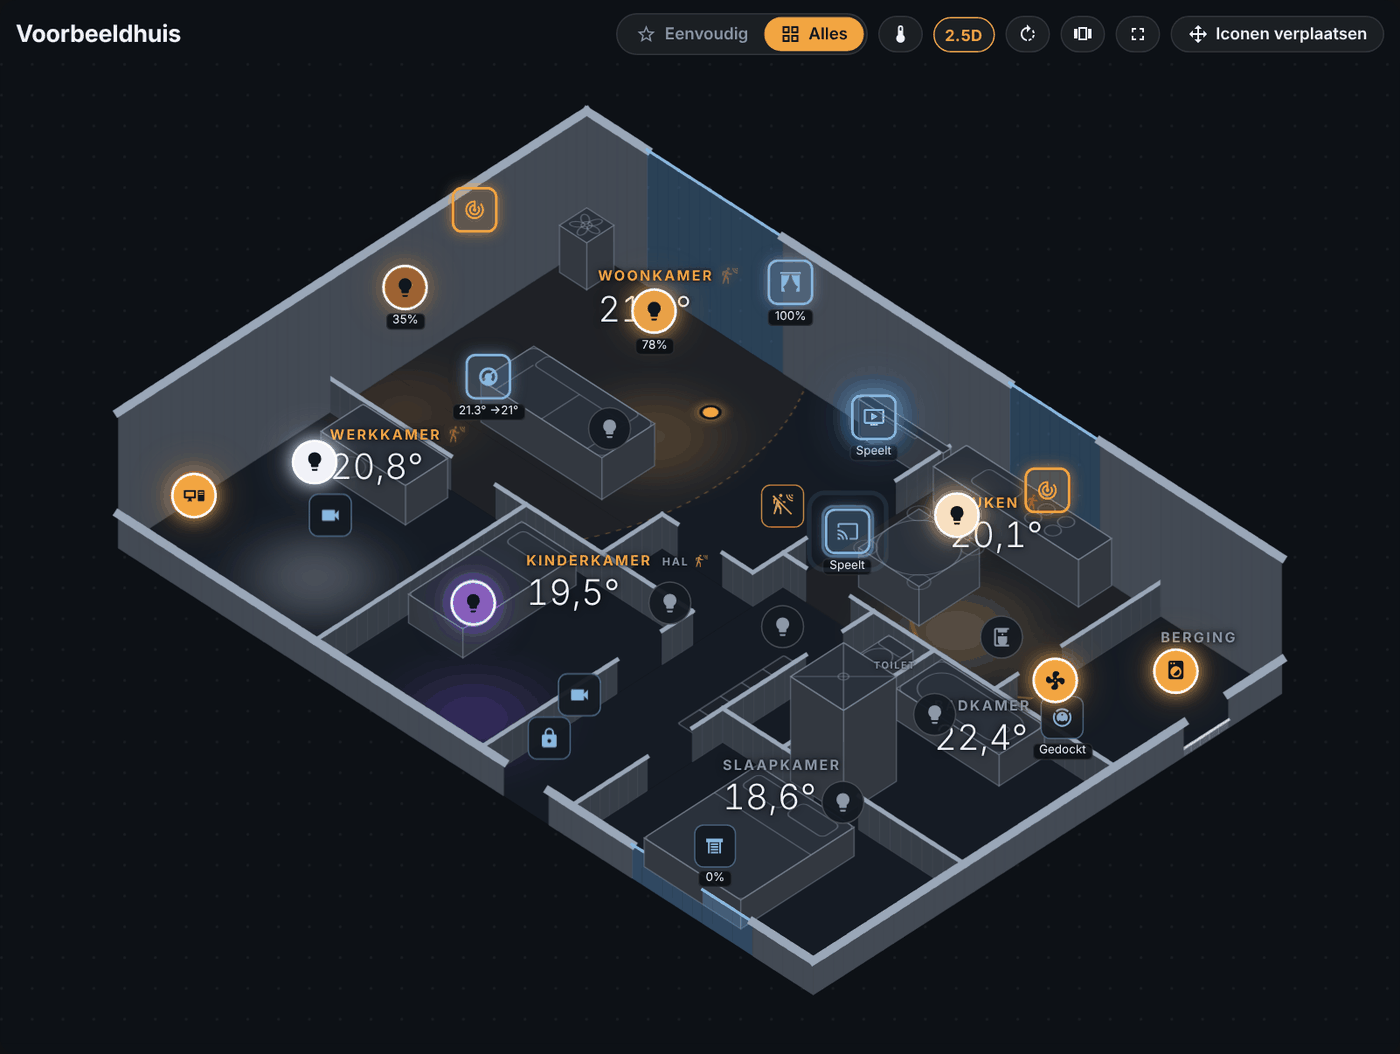
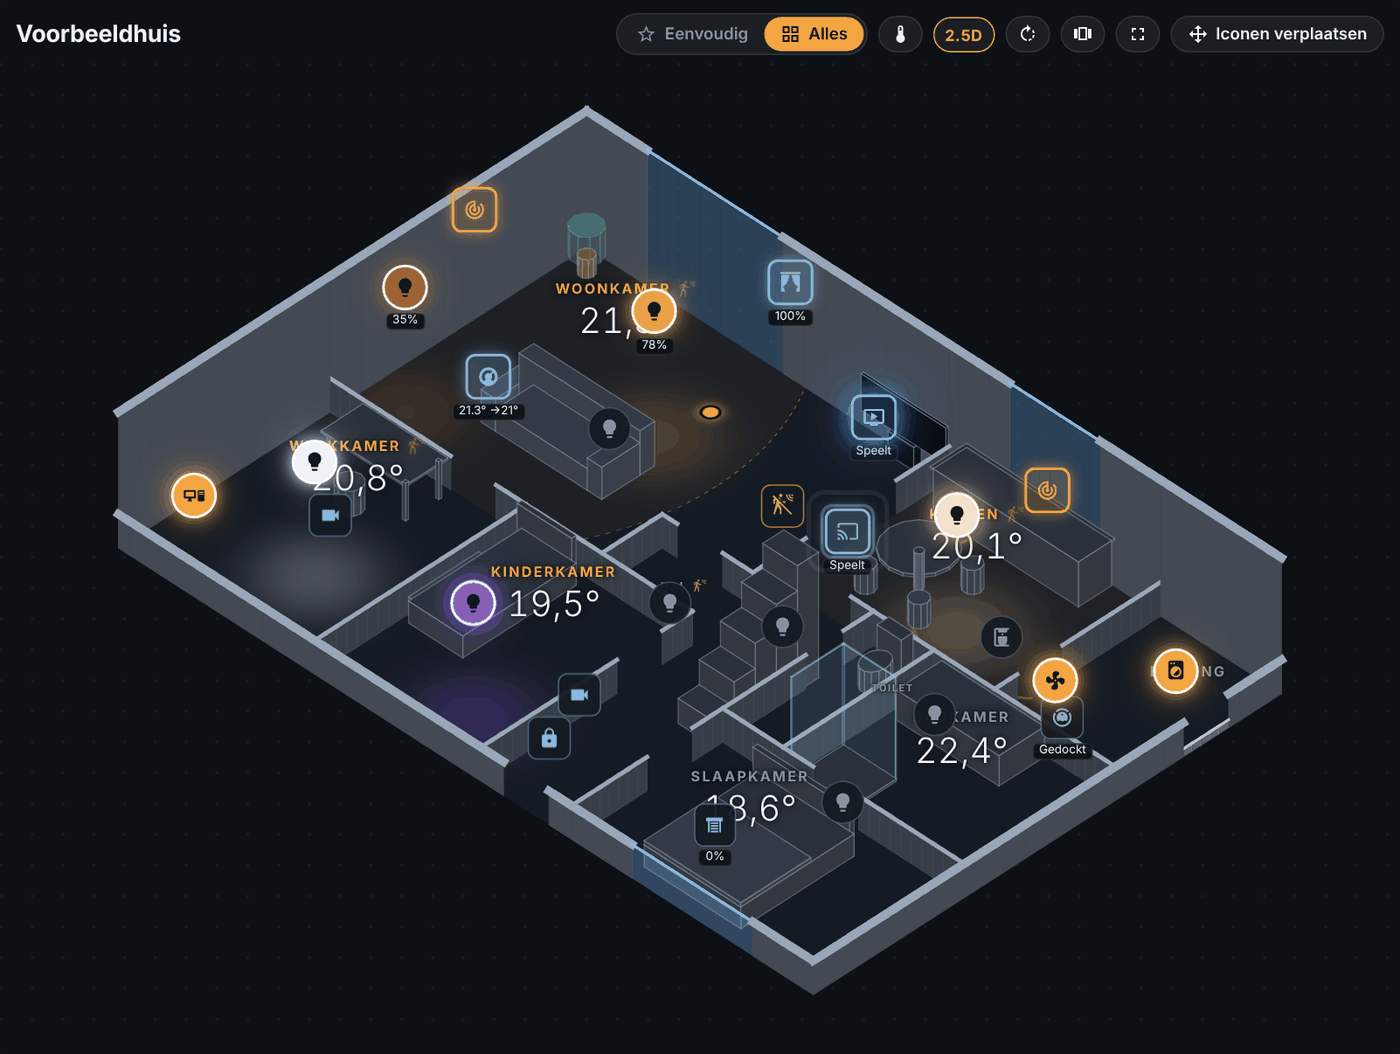
Test: furniture built from pieces in 2.5D (sofa, bed, table with chairs, stairs, plant...), room text centred in 2.5D, 1.3.0b23

diff --git a/custom_components/floorplan_studio/frontend/fps-core.js b/custom_components/floorplan_studio/frontend/fps-core.js
@@ -1,6 +1,6 @@
 // Floorplan Studio – shared helpers for the card and the editor panel.
 
-export const VERSION = '1.3.0b22';
+export const VERSION = '1.3.0b23';
 
 /* ------------------------------------------------------------------ i18n */
 const STR = {
@@ -657,7 +657,7 @@ export function labelSpot(plan, room, fs, rows = 2) {
  */
 /* ------------------------------------------------------------------ 2.5D */
 /** How tall furniture is, in metres (0 = stays flat on the floor). */
-export const FURN_HEIGHT = { sofa: 0.8, bed: 0.55, table: 0.75, round: 0.75, desk: 0.75, counter: 0.9, cabinet: 2, bath: 0.6, shower: 2, toilet: 0.45, stairs: 0, tv: 0.7, plant: 0.9 };
+export const FURN_HEIGHT = { sofa: 0.85, bed: 0.95, table: 0.9, round: 0.76, desk: 0.76, counter: 0.9, cabinet: 2, bath: 0.58, shower: 2, toilet: 0.8, stairs: 2.4, tv: 1.15, plant: 0.9 };
 const LIFT = 1;   // real proportions; setting height_25d: 'real' or a percentage of that
 /** A piece of furniture's height in metres: its own (set in the editor) or the usual one for its kind. */
 export const furnHeight = (f) => (f.z != null && f.z !== '' && Number.isFinite(+f.z) ? Math.max(0, +f.z) : (FURN_HEIGHT[f.type] || 0));
@@ -714,6 +714,51 @@ export function makeProj(plan, { rot = 0, tilt = 50, height = 100 } = {}) {
 }
 
 /** Walls (cut low where they would block the view into a room) and furniture blocks, back to front. */
+/** Furniture as a few solid pieces for 2.5D (local units around its centre; z in metres). */
+function furnModel(f) {
+  const w = Math.max(10, safeNumber(f.w, 100)), h = Math.max(6, safeNumber(f.h, 60)), x0 = -w / 2, y0 = -h / 2;
+  const R = (a, b, c, d, z0, z1, cls) => ({ poly: [[x0 + a, y0 + b], [x0 + c, y0 + b], [x0 + c, y0 + d], [x0 + a, y0 + d]], z0, z1, cls });
+  const C = (cx, cy, rx, ry, z0, z1, cls, k = 16) => ({ poly: Array.from({ length: k }, (_, i) => [cx + rx * Math.cos((i * 2 * Math.PI) / k), cy + ry * Math.sin((i * 2 * Math.PI) / k)]), z0, z1, cls });
+  const legs = (z1, t = 4) => [[t, t], [w - 2 * t, t], [w - 2 * t, h - 2 * t], [t, h - 2 * t]].map(([a, b]) => R(a, b, a + t, b + t, 0, z1));
+  const chair = (cx, cy, cw, cs, flip) => [R(cx - x0 - cw / 2, cy - y0 - cs / 2, cx - x0 + cw / 2, cy - y0 + cs / 2, 0, 0.46, 'soft'),
+    flip ? R(cx - x0 - cw / 2, cy - y0 + cs / 2 - 3, cx - x0 + cw / 2, cy - y0 + cs / 2, 0.46, 0.9, 'soft') : R(cx - x0 - cw / 2, cy - y0 - cs / 2, cx - x0 + cw / 2, cy - y0 - cs / 2 + 3, 0.46, 0.9, 'soft')];
+  switch (f.type) {
+    case 'sofa': {
+      const arm = Math.min(w * 0.12, 22), back = Math.min(h * 0.28, 24);
+      return [R(arm, back, w - arm, h, 0, 0.42, 'soft'), R(0, 0, w, back, 0, 0.85, 'soft'), R(0, back, arm, h, 0, 0.62, 'soft'), R(w - arm, back, w, h, 0, 0.62, 'soft')];
+    }
+    case 'bed': {
+      const pw = w > 120 ? (w - 30) / 2 : w - 20, ph = Math.min(30, h * 0.16);
+      return [R(0, 0, w, h, 0, 0.42), R(0, 0, w, 6, 0, 0.95), R(0, h * 0.38, w, h, 0.42, 0.5, 'soft'),
+        ...(w > 120 ? [R(10, 10, 10 + pw, 10 + ph, 0.42, 0.54, 'soft'), R(20 + pw, 10, 20 + 2 * pw, 10 + ph, 0.42, 0.54, 'soft')] : [R(10, 10, 10 + pw, 10 + ph, 0.42, 0.54, 'soft')])];
+    }
+    case 'table': {
+      const cw = Math.min(34, w / 4), cs = 14, n = Math.max(1, Math.floor(w / 60)), out = [...legs(0.7), R(0, 0, w, h, 0.7, 0.76)];
+      for (let i = 0; i < n; i++) { const cx = x0 + ((i + 0.5) * w) / n; out.push(...chair(cx, y0 - cs / 2 - 4, cw, cs, false), ...chair(cx, -y0 + cs / 2 + 4, cw, cs, true)); }
+      return out;
+    }
+    case 'round': {
+      const out = [C(0, 0, 5, 5, 0, 0.7), C(0, 0, w / 2, h / 2, 0.7, 0.76)];
+      for (let i = 0; i < 4; i++) { const ang = (i * Math.PI) / 2 + Math.PI / 4; out.push(C(Math.cos(ang) * (w / 2 + 10), Math.sin(ang) * (h / 2 + 10), 11, 11, 0, 0.46, 'soft', 10)); }
+      return out;
+    }
+    case 'desk': return [...legs(0.72), R(0, 0, w, h, 0.72, 0.76), C(0, h / 2 + 18, 15, 15, 0, 0.48, 'soft', 12)];
+    case 'counter': return [R(0, 0, w, h, 0, 0.86), R(-2, -2, w + 2, h + 2, 0.86, 0.9), R(w * 0.2, h * 0.2, w * 0.2 + Math.min(60, w / 4), h * 0.8, 0.9, 0.9, 'dark')];
+    case 'cabinet': return [R(0, 0, w, h, 0, 2), R(w / 2 - 0.5, h - 0.5, w / 2 + 0.5, h, 0.05, 1.95, 'dark')];
+    case 'bath': return [R(0, 0, w, h, 0, 0.58), R(8, 8, w - 8, h - 8, 0.58, 0.58, 'dark')];
+    case 'shower': return [R(0, 0, w, h, 0, 0.05), R(0, 0, w, 1.5, 0.05, 2, 'glass'), R(0, 0, 1.5, h, 0.05, 2, 'glass')];
+    case 'toilet': return [R(0, 0, w, h * 0.3, 0, 0.8), C(0, y0 + h * 0.3 + (h * 0.7) / 2, w / 2 - 2, (h * 0.7) / 2, 0, 0.42, '', 14)];
+    case 'stairs': {
+      const k = Math.max(3, Math.round(h / 26)), out = [];
+      for (let i = 0; i < k; i++) out.push(R(0, (i * h) / k, w, ((i + 1) * h) / k, 0, (2.4 * (k - i)) / k));
+      return out;
+    }
+    case 'tv': return [R(w * 0.35, 0, w * 0.65, h, 0, 0.45, 'dark'), R(0, h / 2 - 1.5, w, h / 2 + 1.5, 0.45, 1.15, 'dark')];
+    case 'plant': return [C(0, 0, w / 4, h / 4, 0, 0.35, 'pot', 10), C(0, 0, w / 2, h / 2, 0.35, 0.9, 'plant', 10)];
+    default: return [R(0, 0, w, h, 0, FURN_HEIGHT[f.type] || 0.8)];
+  }
+}
+
 export function raisedSVG(plan, walls, proj) {
   const { P, dz, s, sc, wallH } = proj, parts = [];
   const pts = (list) => list.map(([x, y]) => `${x.toFixed(1)},${y.toFixed(1)}`).join(' ');
@@ -765,19 +810,28 @@ export function raisedSVG(plan, walls, proj) {
   for (const f of plan.furniture || []) {
     const fh = furnHeight(f);
     if (!(fh > 0)) continue;
-    const w2 = Math.max(10, safeNumber(f.w, 100)) / 2, h2 = Math.max(6, safeNumber(f.h, 60)) / 2, r = (safeNumber(f.rot) * Math.PI) / 180;
-    const base = [[-w2, -h2], [w2, -h2], [w2, h2], [-w2, h2]].map(([x, y]) => P(safeNumber(f.x) + x * Math.cos(r) - y * Math.sin(r), safeNumber(f.y) + x * Math.sin(r) + y * Math.cos(r)));
-    const hh = fh * sc * proj.lift, top = base.map((p) => up(p, hh));
-    const ccx = base.reduce((a, p) => a + p[0], 0) / 4, ccy = base.reduce((a, p) => a + p[1], 0) / 4;
-    const sides = [];
-    for (let i = 0; i < 4; i++) {
-      const p = base[i], q = base[(i + 1) % 4];
-      let nxs = q[1] - p[1], nys = -(q[0] - p[0]);
-      if (nxs * ((p[0] + q[0]) / 2 - ccx) + nys * ((p[1] + q[1]) / 2 - ccy) < 0) { nxs = -nxs; nys = -nys; }
-      if (nys > 0) sides.push(`<polygon class="f3side" points="${pts([p, q, up(q, hh), up(p, hh)])}"/>`);
+    const r = (safeNumber(f.rot) * Math.PI) / 180, cr = Math.cos(r), sr = Math.sin(r), fx = safeNumber(f.x), fy = safeNumber(f.y);
+    const zs = fh / (FURN_HEIGHT[f.type] || fh);   // an own height stretches the whole piece
+    const toP = ([x, y], z) => { const p = P(fx + x * cr - y * sr, fy + x * sr + y * cr); return [p[0], p[1] + dz(z * zs * sc * proj.lift)]; };
+    for (const pr of furnModel(f)) {
+      const base = pr.poly.map((q) => toP(q, pr.z0)), top = pr.poly.map((q) => toP(q, pr.z1));
+      const n = base.length, ccx = base.reduce((acc, p) => acc + p[0], 0) / n, ccy = base.reduce((acc, p) => acc + p[1], 0) / n;
+      const sides = [];
+      if (pr.z1 > pr.z0) {
+        for (let i = 0; i < n; i++) {
+          const p = base[i], q = base[(i + 1) % n];
+          let nxs = q[1] - p[1], nys = -(q[0] - p[0]);
+          if (nxs * ((p[0] + q[0]) / 2 - ccx) + nys * ((p[1] + q[1]) / 2 - ccy) < 0) { nxs = -nxs; nys = -nys; }
+          if (nys > 0) sides.push(`<polygon class="f3side" points="${pts([p, q, top[(i + 1) % n], top[i]])}"/>`);
+        }
+      }
+      const allp = [...base, ...top];
+      parts.push({
+        key: Math.max(...base.map((p) => p[1])) + pr.z0 * 0.001, box: [fx, fy],
+        sb: [Math.min(...allp.map((p) => p[0])), Math.min(...allp.map((p) => p[1])), Math.max(...allp.map((p) => p[0])), Math.max(...allp.map((p) => p[1]))],
+        svg: `<g class="f3 ${pr.cls || ''}">${sides.join('')}<polygon class="f3top" points="${pts(top)}"/></g>`,
+      });
     }
-    const allp = [...base, ...top];
-    parts.push({ key: Math.max(...base.map((p) => p[1])), box: [safeNumber(f.x), safeNumber(f.y)], sb: [Math.min(...allp.map((p) => p[0])), Math.min(...allp.map((p) => p[1])), Math.max(...allp.map((p) => p[0])), Math.max(...allp.map((p) => p[1]))], svg: `<g class="f3">${sides.join('')}<polygon class="f3top" points="${pts(top)}"/><g transform="translate(0 ${dz(hh).toFixed(1)}) matrix(${proj.m.map((v) => +v.toFixed(5)).join(' ')})">${furnSVG(f)}</g></g>` });
   }
   // a block against a wall: which side of that wall it stands on decides who is drawn first
   // (comparing only how far forward things are goes wrong for a desk right behind a low wall)
@@ -935,6 +989,11 @@ export const PLAN_CSS = `
   .f3side { fill: color-mix(in srgb, var(--fps-muted) 30%, var(--fps-bg)); stroke: var(--fps-muted); stroke-opacity: .5; stroke-width: .8; }
   .f3top { fill: color-mix(in srgb, var(--fps-muted) 18%, var(--fps-floor)); stroke: var(--fps-muted); stroke-opacity: .6; stroke-width: .8; }
   .f3 .furn { fill: none; stroke-opacity: .5; }
+  .f3.soft .f3top { fill: color-mix(in srgb, var(--fps-muted) 26%, var(--fps-floor)); } .f3.soft .f3side { fill: color-mix(in srgb, var(--fps-muted) 36%, var(--fps-bg)); }
+  .f3.dark .f3top, .f3.dark .f3side { fill: color-mix(in srgb, var(--fps-bg) 80%, #000); }
+  .f3.glass .f3top, .f3.glass .f3side { fill: rgba(160, 210, 255, .12); stroke: rgba(170, 215, 255, .6); }
+  .f3.plant .f3top { fill: rgba(70, 160, 90, .75); stroke: rgba(120, 200, 130, .7); } .f3.plant .f3side { fill: rgba(50, 120, 70, .75); stroke: rgba(120, 200, 130, .5); }
+  .f3.pot .f3top, .f3.pot .f3side { fill: rgba(160, 100, 70, .7); }
   .stalks line { stroke: var(--fps-fg); stroke-opacity: .35; stroke-width: 1.2; stroke-dasharray: 2 3; pointer-events: none; }
   .stalks ellipse { fill: var(--fps-fg); fill-opacity: .3; pointer-events: none; }
   .furn { fill: var(--fps-fg); fill-opacity: .035; stroke: var(--fps-muted); stroke-opacity: .55; stroke-width: 1.4; stroke-linejoin: round; pointer-events: none; }

diff --git a/custom_components/floorplan_studio/frontend/floorplan-studio-card.js b/custom_components/floorplan_studio/frontend/floorplan-studio-card.js
@@ -4,8 +4,8 @@ import {
   PLACE_DOMAINS, LAMP_DOMAINS, settingsOf, levelMode, isOn, friendly, lightColor, shortState, loadPlans, savePlan, loadUsage, fire, esc,
   themeFromEntity, themeKey, roomPath, navigate, tempColor, roomPresence, roomAlerts, planVacuum, vacuumMapEntity, VACUUM_BUSY, transformImage, safeNumber, safeSvgId,
   labelSpot, roomTextWidth, motionFade, isMotion, planScale, radarState, makeProj, itemHeight, furnAt, furnHeight, raisedSVG, computeWalls,
-} from './fps-core.js?v=1.3.0b22';
-import { roomInfo, greeting, sideConfig, weatherInfo, mainAction, energyInfo, statusRow } from './fps-info.js?v=1.3.0b22';
+} from './fps-core.js?v=1.3.0b23';
+import { roomInfo, greeting, sideConfig, weatherInfo, mainAction, energyInfo, statusRow } from './fps-info.js?v=1.3.0b23';
 
 
 const CSS = `
@@ -55,7 +55,8 @@ const CSS = `
   .item:hover .name { opacity: 1; }
   .item:hover { z-index: 999 !important; }
   .stage { isolation: isolate; }   /* icons stack among themselves; the quick window and menus always stay on top */
-  .p25 .rinfo .rrows { display: none; }   /* 2.5D: only name and temperature, so it stays calm */
+  .p25 .rinfo .rrows { display: none; }
+  .p25 .rinfo { transform: translate(-50%, -50%); text-align: center; }   /* 2.5D: only name and temperature, so it stays calm */
   .zoomhint { position: absolute; left: 50%; top: 50%; transform: translate(-50%, -50%); z-index: 30; padding: 10px 16px; border-radius: 12px; background: rgba(0,0,0,.72); color: #fff; font-size: 14px; pointer-events: none; opacity: 0; transition: opacity .25s; white-space: nowrap; }
   .zoomhint.on { opacity: 1; }
   .btn.view3 { font-size: 12px; font-weight: 700; letter-spacing: .02em; width: auto; padding: 0 9px; }
@@ -815,7 +816,12 @@ class FloorplanStudioCard extends HTMLElement {
       const [x, y] = room.label ? [room.label.x, room.label.y] : labelSpot(plan, room, fs0, rows);
       const d = document.createElement('div');
       d.className = `rinfo ${room.label_hidden ? 'off' : ''}`; d.dataset.room = room.id; d._fs = fs0;
-      [d.style.left, d.style.top] = this._at(x, y); d._fx = x; d._fy = y;
+      if (this._proj) {
+        // 2.5D: hang the (short) block by its middle, so turning and tilting keeps it inside the room
+        const name = String(room.name || ''), bw = Math.max(name.length * fs0 * 0.84, fs0 * 9.5), bh = fs0 * 3.9;
+        d._fx = x + bw / 2; d._fy = y + bh / 2;
+      } else { d._fx = x; d._fy = y; }
+      [d.style.left, d.style.top] = this._at(d._fx, d._fy);
       d.style.setProperty('--fs', `${((fs * (this._proj ? Math.min(1, this._proj.s * 1.1) : 1)) / plan.width) * 100}cqw`);
       d.innerHTML = '<div class="rn"><span></span><span class="pd"><ha-icon icon="mdi:motion-sensor"></ha-icon></span></div><div class="rh"></div><div class="rrows"></div>';
       d.querySelector('.rn span').textContent = room.name || '';

diff --git a/custom_components/floorplan_studio/frontend/floorplan-studio-panel.js b/custom_components/floorplan_studio/frontend/floorplan-studio-panel.js
@@ -1,11 +1,11 @@
 // Floorplan Studio – editor panel (sidebar → Floorplan).
-import './floorplan-studio-card.js?v=1.3.0b22';
+import './floorplan-studio-card.js?v=1.3.0b23';
 import {
   VERSION, THEMES, themeStyle, computeWalls, nearestWall, norm, roomBBox, roomAt, areaEntities, entityArea,
   PLACE_DOMAINS, placeCandidates, friendly, newPlan, DEFAULT_SETTINGS, settingsOf, levelMode, loadPlans, savePlan, esc, safeNumber, safeImageData,
   FURN_TYPES, furnSVG, planScale, fmtMeters, roomArea, radarEntities, FURN_HEIGHT, itemHeight,
-} from './fps-core.js?v=1.3.0b22';
-import { buildDashboard } from './fps-dashboard.js?v=1.3.0b22';
+} from './fps-core.js?v=1.3.0b23';
+import { buildDashboard } from './fps-dashboard.js?v=1.3.0b23';
 
 const L = {
   en: {

diff --git a/custom_components/floorplan_studio/frontend/fps-dashboard.js b/custom_components/floorplan_studio/frontend/fps-dashboard.js
@@ -1,7 +1,7 @@
 // Floorplan Studio – builds a complete dashboard around a floorplan:
 // Home · Floorplan · Kiosk · Energy · Outside · TV, plus a page per room (tabs are only added when there is something to show).
 // Uses only built-in cards, and nicer HACS cards (advanced-camera-card, clock-weather-card) when they are installed.
-import { entityArea, roomPath } from './fps-core.js?v=1.3.0b22';
+import { entityArea, roomPath } from './fps-core.js?v=1.3.0b23';
 
 const OUTSIDE = /buiten|tuin|outside|outdoor|garden|yard|oprit|driveway|terras|patio|balkon|balcony|garage|voortuin|achtertuin|poort|gate|dak|roof|straat|street/i;
 

diff --git a/custom_components/floorplan_studio/frontend/fps-info.js b/custom_components/floorplan_studio/frontend/fps-info.js
@@ -1,6 +1,6 @@
 // Floorplan Studio – what the room text blocks and the side column show.
 // Pure functions on `hass` (no DOM), so they are easy to test.
-import { areaEntities, roomSummary, friendly, shortState, settingsOf, isOn } from './fps-core.js?v=1.3.0b22';
+import { areaEntities, roomSummary, friendly, shortState, settingsOf, isOn } from './fps-core.js?v=1.3.0b23';
 
 const NL = (hass) => (hass?.locale?.language || hass?.language || 'en').startsWith('nl');
 const W = (hass, nl, en) => (NL(hass) ? nl : en);

diff --git a/custom_components/floorplan_studio/frontend/fps-loader.js b/custom_components/floorplan_studio/frontend/fps-loader.js
@@ -1,6 +1,6 @@
 // Floorplan Studio – tiny starter. Home Assistant loads this first: it registers the cards at once
 // (so the dashboard never shows "configuration error" while waiting) and fetches the real card code.
-const IMPL = './floorplan-studio-card.js?v=1.3.0b22';
+const IMPL = './floorplan-studio-card.js?v=1.3.0b23';
 let loading = null;
 const load = () => (loading = loading || import(IMPL));
 load();   // start right away, before any card asks for it

diff --git a/custom_components/floorplan_studio/const.py b/custom_components/floorplan_studio/const.py
@@ -1,7 +1,7 @@
 """Constants for Floorplan Studio."""
 
 DOMAIN = "floorplan_studio"
-VERSION = "1.3.0b22"
+VERSION = "1.3.0b23"
 REPO_URL = "https://github.com/trackerr/home-assistant-floorplan-studio"
 
 STORAGE_KEY = "floorplan_studio.plans"
